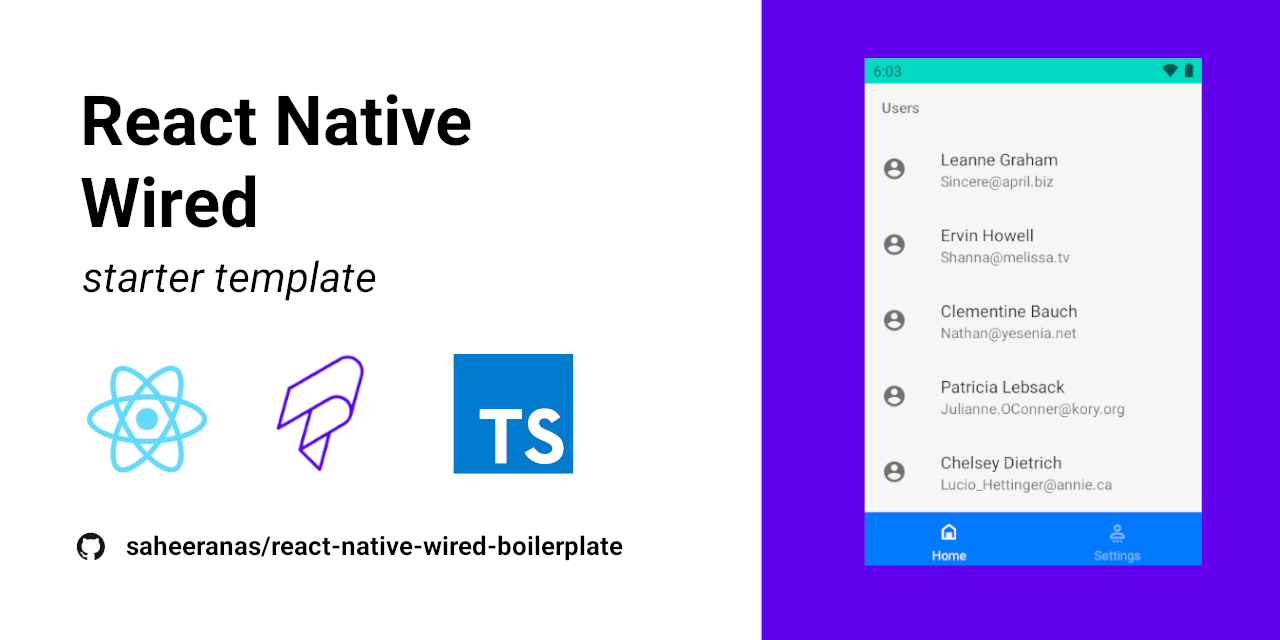
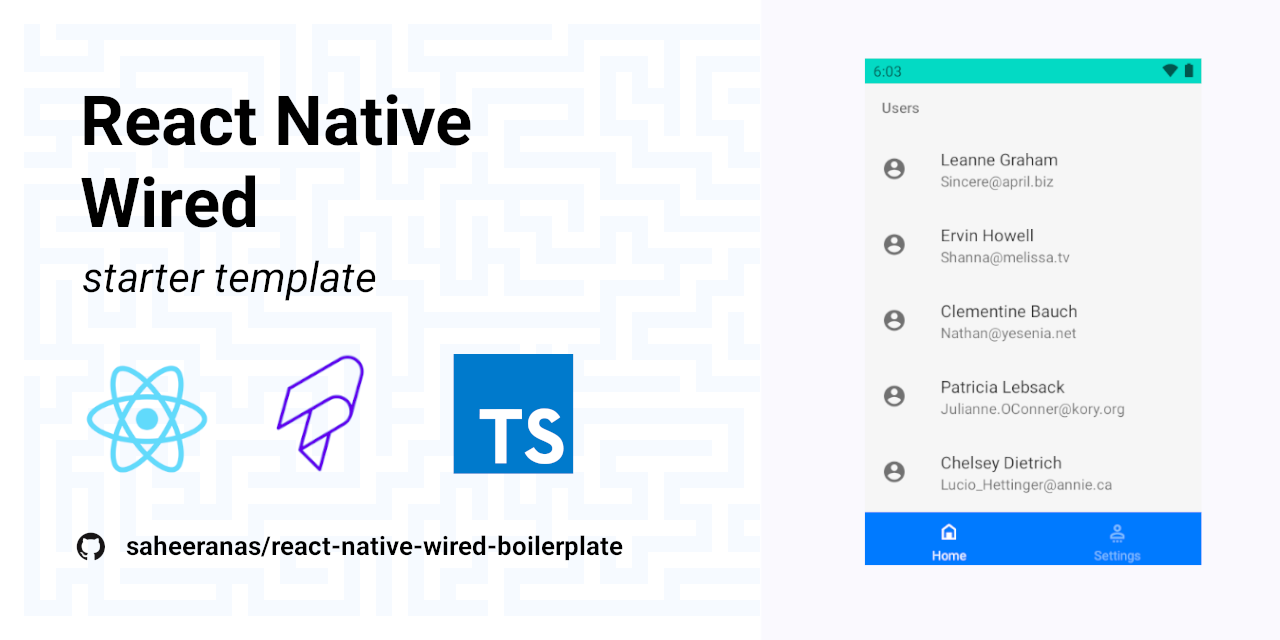
1. Update readme image 2. Add profile info to Settings screen

Changed region(s): [[0.5938, 0.0, 1.0, 1.0]]

diff --git a/src/screens/Settings.tsx b/src/screens/Settings.tsx
@@ -1,7 +1,15 @@
 import * as React from 'react';
 import {StyleSheet, View} from 'react-native';
 import {SafeAreaView} from 'react-native-safe-area-context';
-import {useTheme, Button} from 'react-native-paper';
+import {
+  useTheme,
+  Button,
+  Surface,
+  Avatar,
+  Title,
+  Text,
+  Divider,
+} from 'react-native-paper';
 import {useAuth} from '../hooks/AuthProvider';
 
 import FocusAwareStatusBar from '../components/FocusAwareStatusBar';
@@ -16,11 +24,17 @@ const Settings = () => {
         barStyle="light-content"
         backgroundColor={colors.accent}
       />
-      <View>
-        <Button mode="contained" onPress={signout}>
-          Signout
-        </Button>
-      </View>
+      <Surface style={{backgroundColor: colors.surface}}>
+        <View style={styles.menuWrp}>
+          <Avatar.Text size={64} label="XD" />
+          <Title>Saheer A</Title>
+          <Text>demo@demo.com</Text>
+          <Button mode="text" onPress={signout}>
+            Signout
+          </Button>
+          <Divider />
+        </View>
+      </Surface>
     </SafeAreaView>
   );
 };
@@ -30,7 +44,12 @@ export default Settings;
 const styles = StyleSheet.create({
   container: {
     flex: 1,
+  },
+  menuWrp: {
     justifyContent: 'center',
     alignItems: 'center',
+    paddingTop: 50,
+    paddingBottom: 10,
+    paddingHorizontal: 16,
   },
 });

diff --git a/src/screens/auth/SignIn.tsx b/src/screens/auth/SignIn.tsx
@@ -62,8 +62,7 @@ const SignIn = () => {
   };
 
   return (
-    <SafeAreaView
-      style={[styles.container, {backgroundColor: colors.background}]}>
+    <SafeAreaView style={[styles.container, {backgroundColor: colors.surface}]}>
       <FocusAwareStatusBar
         barStyle="light-content"
         backgroundColor={colors.accent}
@@ -84,6 +83,7 @@ const SignIn = () => {
           }) => (
             <View>
               <TextInput
+                mode="outlined"
                 label="Username"
                 placeholder="Username/Email"
                 onChangeText={handleChange('username')}
@@ -99,6 +99,7 @@ const SignIn = () => {
                 {errors.username}
               </HelperText>
               <TextInput
+                mode="outlined"
                 label="Password"
                 placeholder="Password"
                 onChangeText={handleChange('password')}
@@ -129,12 +130,9 @@ export default SignIn;
 const styles = StyleSheet.create({
   container: {
     flex: 1,
-    justifyContent: 'center',
-    alignItems: 'center',
   },
   surface: {
-    width: '90%',
-    // height: '100%',
+    flex: 1,
     paddingHorizontal: 8,
     paddingVertical: 16,
     alignItems: 'center',

diff --git a/src/screens/Home.tsx b/src/screens/Home.tsx
@@ -21,8 +21,7 @@ const Home = () => {
   );
 
   return (
-    <SafeAreaView
-      style={[styles.container, {backgroundColor: colors.background}]}>
+    <SafeAreaView style={[styles.container, {backgroundColor: colors.surface}]}>
       <FocusAwareStatusBar
         barStyle="dark-content"
         backgroundColor={colors.accent}
